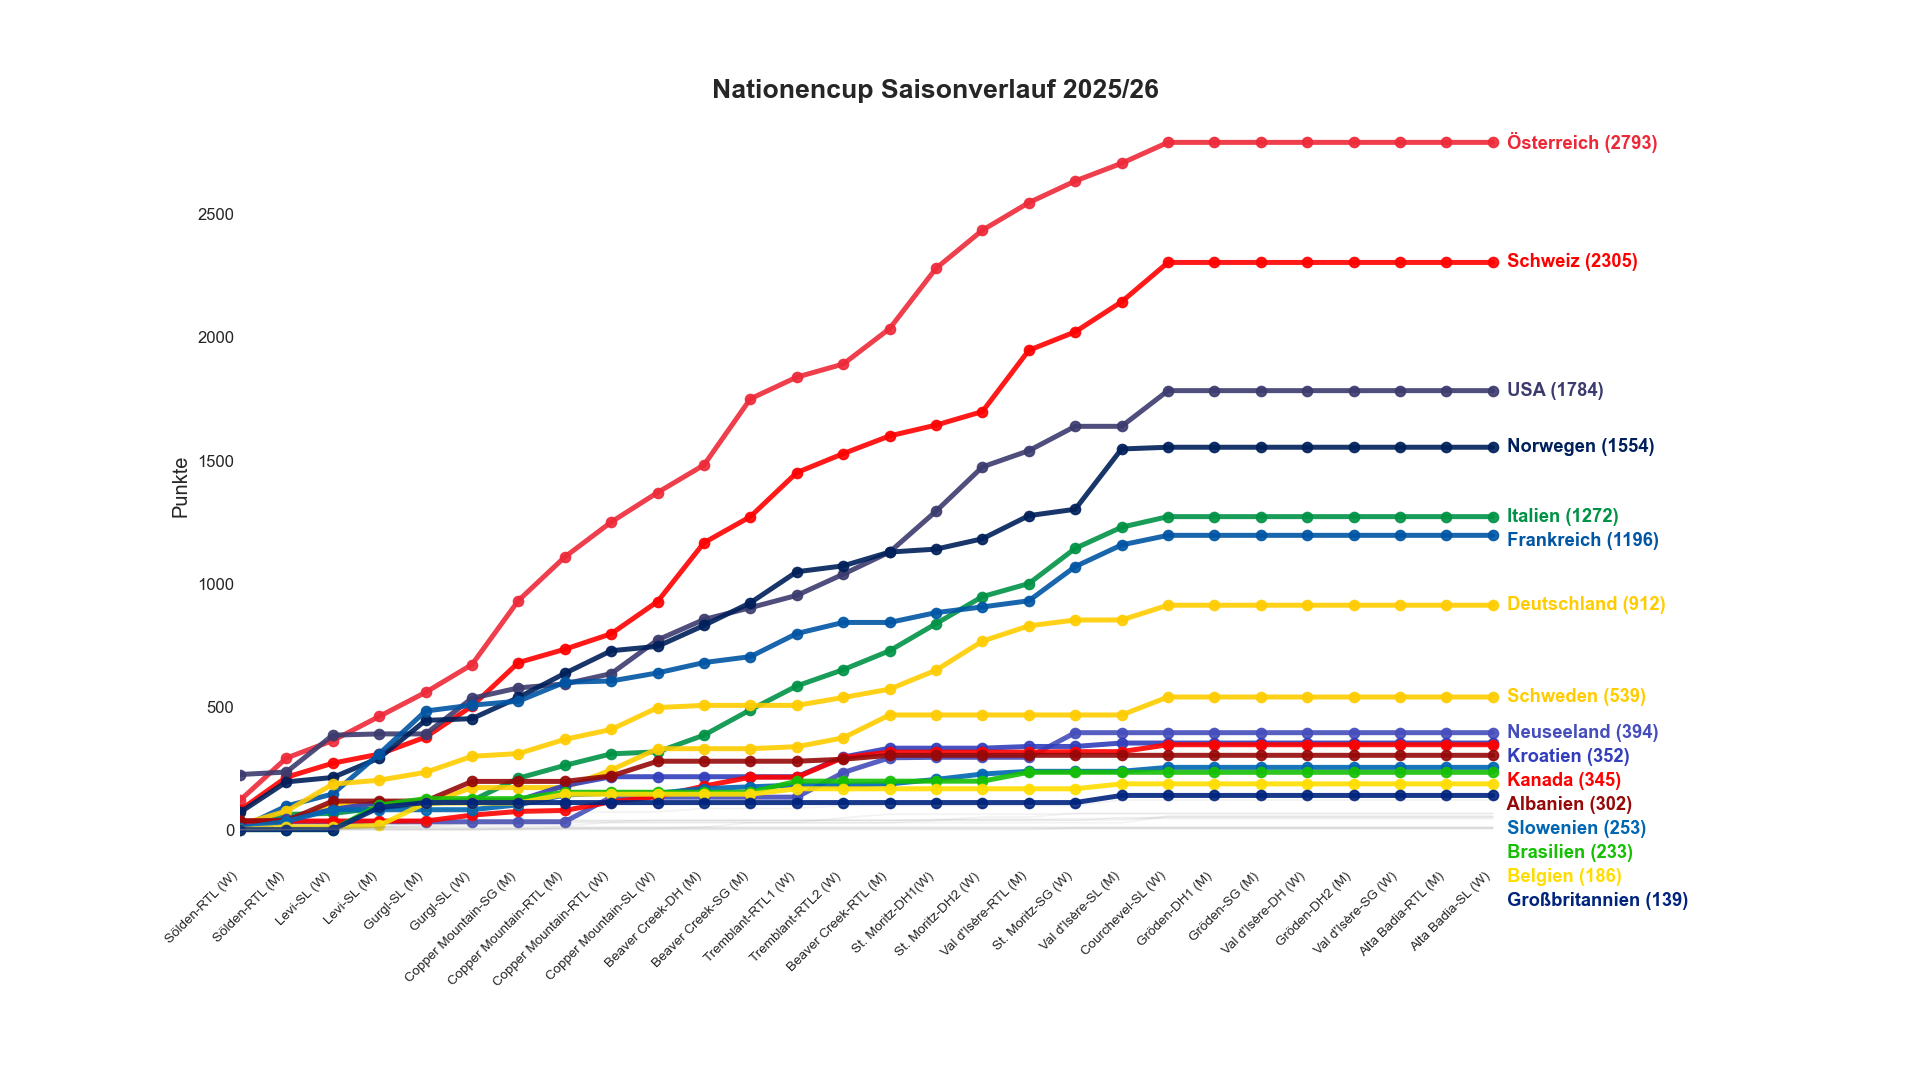
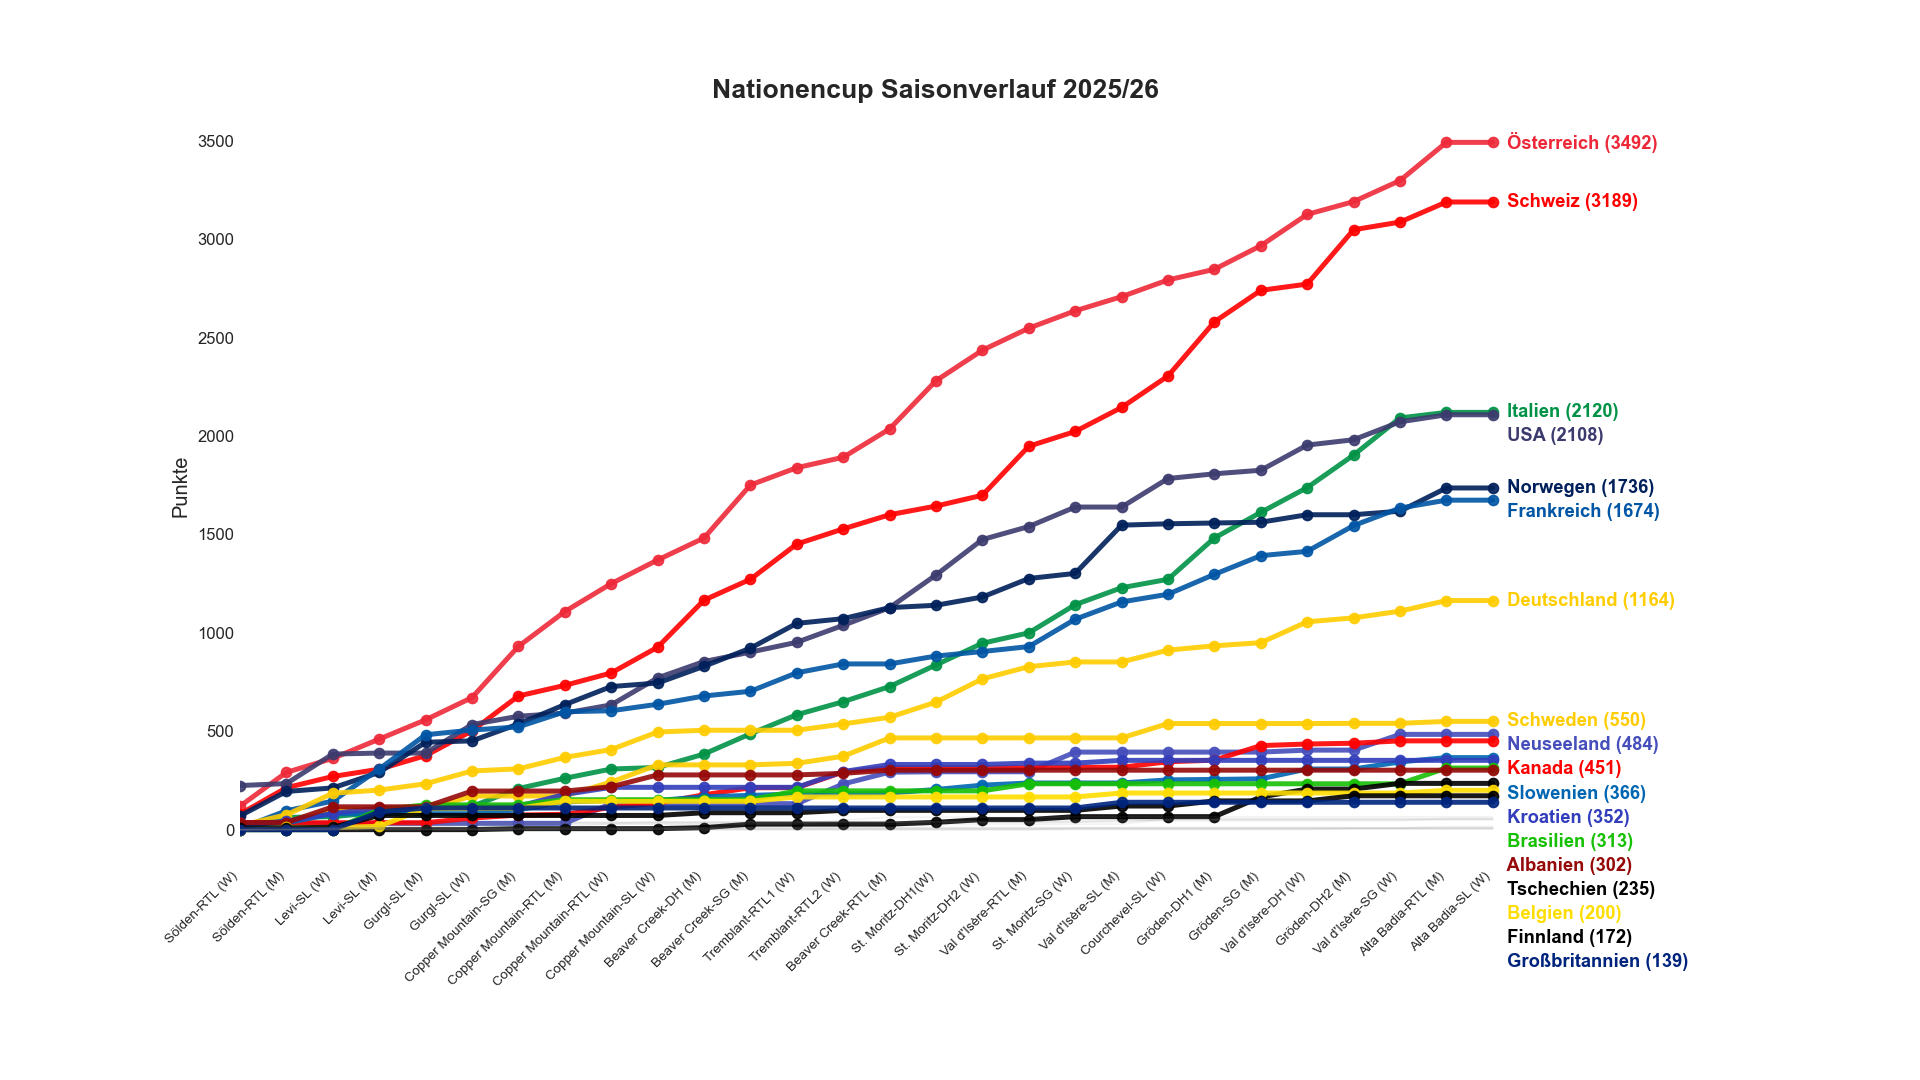
Nationen hinzufügen. Einige Rennen aktualisieren.

diff --git a/ski_nationencup_25-26.py b/ski_nationencup_25-26.py
@@ -24,7 +24,7 @@ NATION_MAP = {
     "ITA": "Italien", "SWE": "Schweden", "CRO": "Kroatien",
     "ALB": "Albanien", "CAN": "Kanada", "SLO": "Slowenien",
     "NZL": "Neuseeland", "BRA": "Brasilien", "BEL": "Belgien",
-    "GBR": "Großbritannien"
+    "GBR": "Großbritannien", "CZE": "Tschechien", "FIN": "Finnland"
 }
 
 NATION_COLORS = {
@@ -79,7 +79,7 @@ RACE_ID_TO_NAME = {
 }
 
 # Liste der Nationen, die beschriftet werden sollen (Namen müssen zum Mapping oben passen)
-wichtige = ["Österreich", "Schweiz", "Norwegen", "Frankreich", "USA", "Deutschland", "Italien", "Schweden", "Kroatien", "Kanada", "Albanien", "Neuseeland", "Brasilien", "Slowenien", "Belgien", "Großbritannien"]
+wichtige = ["Österreich", "Schweiz", "Norwegen", "Frankreich", "USA", "Deutschland", "Italien", "Schweden", "Kroatien", "Kanada", "Albanien", "Tschechien", "Finnland", "Neuseeland", "Brasilien", "Slowenien", "Belgien", "Großbritannien"]
 
 def update_wallpaper():
     # print("Lese Excel Daten...", end="")
